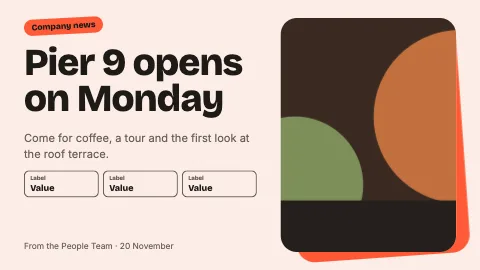
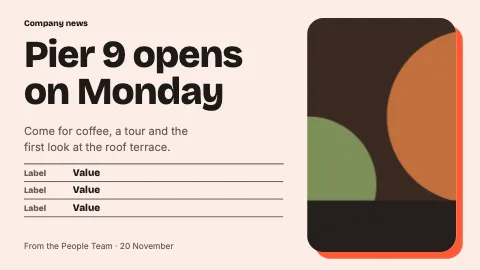
feat(announcement): facts as ruled rows, the code's label under it, a plain label, one accent a look (#603)
* feat(announcement): facts as ruled rows, the code's label under it, a plain label, one accent a look

The board's announcement (#news-design), in all four looks: facts are ruled rows with the label beside the value, so
a value wraps rather than being cut ("9 am" stays whole); the code stands on the ground with its label under it,
clamped to two balanced lines; the body, values and meta are balanced. Pop's label is plain text, not a wobbling pill,
its code has no cobalt card, and the photo's tomato block stands straight. Night's one accent is its label (the fact
labels, meta and code label go muted, and the code loses its frame). Corporate's code spans the facts' and meta's rows.
Announcement 1.2.0.

Pi measurement waived by the owner (2026-11-26).

* fix(announcement): Pop's code steps down with max-length copy so the row under it stays on screen

* Revert "fix(announcement): Pop's code steps down with max-length copy so the row under it stays on screen"

This reverts commit 2100e06475d5931a387ae3937f626f6dd1581a73.

* fix(announcement): Pop's gaps and code label step down with max-length copy

The code keeps its 30vmin so it scans from 2 m; the four gaps between
blocks and the label under the code step down with the body instead, so
long copy fits its box at the smallest step with room to spare in CI.

* test(announcement): the code holds 30vmin with every field at its limit; the accent check reads computed colours
[…]

Changed region(s): [[0.0312, 0.0593, 1.0, 0.9778], [0.0312, 0.0593, 0.5312, 0.4444]]

diff --git a/templates/announcement/style.css b/templates/announcement/style.css
@@ -107,26 +107,33 @@ body {
   font-size: calc(var(--lk-size-body) * var(--lk-scale) * var(--fit-body));
   line-height: 1.4;
   color: var(--lk-muted);
-  text-wrap: pretty;
+  text-wrap: balance;
   overflow-wrap: anywhere;
   display: -webkit-box;
   -webkit-box-orient: vertical;
   -webkit-line-clamp: 3;
   overflow: hidden;
 }
+/* Facts as ruled rows, the label beside the value, so a value wraps rather than being cut ("9 am" stays whole). */
 .facts {
   grid-area: facts;
   display: flex;
+  flex-direction: column;
   min-width: 0;
+  border-top: var(--lk-rule) solid var(--lk-rule-color);
 }
 .fact {
-  flex: 1 1 0;
   min-width: 0;
   display: flex;
-  flex-direction: column;
-  gap: 0.4em;
+  align-items: baseline;
+  gap: 2.6vmin;
+  padding: calc(1vmin * var(--fit-body)) 0;
+  border-bottom: var(--lk-rule) solid var(--lk-rule-color);
 }
 .fact dt {
+  flex: none;
+  width: 5em;
+  max-width: 35%;
   font-family: var(--lk-font-label);
   font-weight: var(--lk-label-weight);
   font-size: var(--lk-size-label);
@@ -138,19 +145,24 @@ body {
   text-overflow: ellipsis;
 }
 .fact dd {
+  flex: 1;
+  min-width: 0;
   font-size: calc(var(--lk-size-title) * var(--fit-body));
   line-height: 1.15;
+  text-wrap: balance;
   overflow-wrap: anywhere;
   display: -webkit-box;
   -webkit-box-orient: vertical;
   -webkit-line-clamp: 2;
   overflow: hidden;
 }
+/* The code on the ground, its label under it. */
 .qr {
   grid-area: qr;
   display: flex;
-  align-items: center;
-  gap: var(--lk-gap);
+  flex-direction: column;
+  align-items: flex-start;
+  gap: 1.4vmin;
   min-width: 0;
 }
 /* The code is always dark on white with its quiet zone, whatever the look or the kit: readers need it. */
@@ -168,11 +180,12 @@ body {
 }
 .qr-label {
   min-width: 0;
-  max-width: 13em;
+  max-width: var(--qr);
+  text-wrap: balance;
   overflow-wrap: anywhere;
   display: -webkit-box;
   -webkit-box-orient: vertical;
-  -webkit-line-clamp: 3;
+  -webkit-line-clamp: 2;
   overflow: hidden;
 }
 .meta {
@@ -183,6 +196,7 @@ body {
   font-size: var(--lk-size-label);
   line-height: 1.45;
   color: var(--lk-muted);
+  text-wrap: balance;
   overflow-wrap: anywhere;
   display: -webkit-box;
   -webkit-box-orient: vertical;
@@ -208,14 +222,16 @@ body {
   object-fit: cover;
 }
 
-/* Pop: the copy and the photo on a tilted tomato card inside a padded page; the eyebrow a wobbling
-   sticker, the QR code on a cobalt card. The canvas tilts the photo too: a drifting photo clipped
-   by a rotated rounded frame dropped 0.77% of frames while playing on the Pi, so it stands straight. */
+/* Pop: the copy and the photo on a tomato block, the look's one accent, inside a padded page; the label plain text,
+   the QR code on the ground. A drifting photo clipped by a rotated rounded frame dropped 0.77% of frames while playing
+   on the Pi, so the photo and its block stand straight. */
 [data-look='pop'] .stage {
   padding: 6.7vmin 8.9vmin;
   gap: 8.9vmin;
 }
+/* The code holds its size to scan, so at max-length copy the space between blocks, and the code's label, step down with the body. */
 [data-look='pop'] .copy {
+  --pop-gap: calc(var(--lk-gap) * var(--fit-body));
   grid-template-rows: min-content min-content min-content min-content minmax(0, 1fr) min-content;
   grid-template-areas:
     'eyebrow eyebrow logo'
@@ -226,14 +242,10 @@ body {
     'meta meta qr';
 }
 [data-look='pop'] .eyebrow {
-  margin-bottom: var(--lk-gap);
+  margin-bottom: var(--pop-gap);
 }
 [data-look='pop'] .pill {
-  padding: 0.4em 0.9em;
-  border-radius: var(--lk-radius-pill);
-  background: var(--lk-primary);
-  color: var(--lk-on-primary);
-  transform: rotate(-3deg);
+  font-size: 3.1vmin;
 }
 [data-look='pop'] .rule,
 [data-look='pop'] .foot-rule {
@@ -241,66 +253,52 @@ body {
 }
 [data-look='pop'] .body,
 [data-look='pop'] .facts {
-  margin-top: var(--lk-gap);
+  margin-top: var(--pop-gap);
+}
+[data-look='pop'] .body {
+  max-width: 24em;
 }
 [data-look='pop'] .facts {
-  gap: 1.6vmin;
+  border-top-color: var(--lk-text);
 }
 [data-look='pop'] .fact {
-  padding: 1.2vmin 2vmin;
-  border: var(--lk-rule) solid var(--lk-rule-color);
-  border-radius: var(--lk-radius-small);
+  border-bottom-color: var(--lk-text);
 }
 [data-look='pop'] .fact dt {
-  font-size: 2.2vmin;
+  font-size: 3.1vmin;
 }
 [data-look='pop'] .fact dd {
   font-family: var(--lk-font-display);
   font-weight: 800;
-  font-size: calc(3.3vmin * var(--fit-body));
+  font-size: calc(3.7vmin * var(--fit-body));
 }
 [data-look='pop'] .qr,
 [data-look='pop'] .meta {
-  margin-top: var(--lk-gap);
+  margin-top: var(--pop-gap);
   align-self: end;
 }
 [data-look='pop'] .qr {
-  --lk-motion: var(--lk-badge-motion);
-  flex-direction: column;
-  align-items: flex-start;
-  gap: 1.5vmin;
   margin-left: 3.7vmin;
-  padding: 1.7vmin;
-  border-radius: 3.3vmin;
-  background: var(--lk-accent);
-  color: var(--lk-on-accent);
   font-family: var(--lk-font-display);
-  font-weight: 800;
-  font-size: 3.7vmin;
-  line-height: 1.05;
-}
-[data-look='pop'] .tile {
-  border-radius: 1.4vmin;
-  overflow: hidden;
+  font-weight: 700;
+  font-size: max(2.6vmin, 3.1vmin * var(--fit-body));
+  line-height: 1.25;
 }
 [data-look='pop'] .qr-label {
-  max-width: var(--qr);
-  padding-inline: 0.4em;
   -webkit-line-clamp: 2;
 }
 [data-look='pop'] .meta-in {
   -webkit-line-clamp: 3;
 }
 [data-look='pop'] .photo {
-  flex-basis: 36.5vw;
+  flex-basis: 31vw;
 }
 [data-look='pop'] .photo::before {
   content: '';
   position: absolute;
-  inset: 3.3vmin -2.6vmin -2.2vmin 3.3vmin;
-  border-radius: 6.7vmin;
+  inset: 2.6vmin -2.6vmin -2.6vmin 2.6vmin;
+  border-radius: min(var(--lk-radius), 6.7vmin);
   background: var(--lk-primary);
-  transform: rotate(-4deg);
 }
 [data-look='pop'] .frame {
   border-radius: var(--lk-radius);
@@ -315,7 +313,7 @@ body {
     'qr meta meta';
 }
 :where([data-orientation='portrait'])[data-look='pop'] .qr {
-  margin: var(--lk-gap) 3.7vmin 0 0;
+  margin: var(--pop-gap) 3.7vmin 0 0;
 }
 :where([data-orientation='portrait'])[data-look='pop'] .photo {
   flex-basis: 30vh;
@@ -369,18 +367,13 @@ body {
 }
 [data-look='poster'] .facts {
   margin-top: 3.3vmin;
-  gap: 2.2vmin;
-}
-[data-look='poster'] .fact:where(.fact + *) {
-  padding-left: 2.2vmin;
-  border-left: max(1px, 0.1vmin) solid var(--lk-rule-color);
 }
 [data-look='poster'] .fact dt {
   color: var(--lk-text);
 }
 [data-look='poster'] .fact dd {
   font-family: var(--lk-font-display);
-  font-size: calc(4.6vmin * var(--fit-body));
+  font-size: calc(3.7vmin * var(--fit-body));
   line-height: 1;
 }
 [data-look='poster'] .foot-rule {
@@ -473,8 +466,8 @@ body {
 [data-look='night'] .meta-in {
   --lk-motion: var(--lk-text-motion);
 }
-[data-look='night'] .pill,
-[data-look='night'] .meta-in {
+/* The label is Night's one accent. */
+[data-look='night'] .pill {
   color: var(--lk-accent-ink-large);
 }
 /* The eyebrow and the meta line share the header, one at each end. */
@@ -524,10 +517,6 @@ body {
 }
 [data-look='night'] .facts {
   margin-top: 3vmin;
-  gap: 3.7vmin;
-}
-[data-look='night'] .fact dt {
-  color: var(--lk-accent-ink);
 }
 [data-look='night'] .fact dd {
   font-family: var(--lk-font-display);
@@ -542,13 +531,8 @@ body {
   width: calc(var(--qr) + 3vmin);
   font-family: var(--lk-font-label);
   font-size: 2.1vmin;
-  color: var(--lk-accent-ink);
+  color: var(--lk-muted);
   text-align: center;
-}
-[data-look='night'] .tile {
-  padding: 1.5vmin;
-  border-radius: 2.6vmin;
-  background: var(--lk-primary);
 }
 :where([data-orientation='portrait'])[data-look='night'] .stage {
   grid-template-rows: min-content min-content minmax(34%, 1fr) min-content min-content min-content;
@@ -578,7 +562,7 @@ body {
     'headline headline headline'
     'body body body'
     'frule frule frule'
-    'facts facts facts'
+    'facts facts qr'
     'meta meta qr';
 }
 [data-look='corporate'] .logo {
@@ -619,13 +603,6 @@ body {
 [data-look='corporate'] .foot-rule {
   margin: 3vmin 0 2.2vmin;
 }
-[data-look='corporate'] .facts {
-  gap: 2.2vmin;
-}
-[data-look='corporate'] .fact:where(.fact + *) {
-  padding-left: 2.2vmin;
-  border-left: var(--lk-rule) solid var(--lk-rule-color);
-}
 [data-look='corporate'] .fact dd {
   font-weight: 500;
 }
@@ -639,7 +616,6 @@ body {
   line-height: 1.5;
 }
 [data-look='corporate'] .qr {
-  flex-direction: row-reverse;
   margin-left: 3.7vmin;
   font-family: var(--lk-font-label);
   font-weight: var(--lk-label-weight);
@@ -651,10 +627,6 @@ body {
 }
 [data-look='corporate'] .tile {
   border: var(--lk-rule) solid var(--lk-rule-color);
-}
-[data-look='corporate'] .qr-label {
-  text-align: right;
-  max-width: 12em;
 }
 [data-look='corporate'] .photo {
   flex-basis: 39.6vw;

diff --git a/templates/announcement/test/browser.test.ts b/templates/announcement/test/browser.test.ts
@@ -100,6 +100,54 @@ describe('announcement (#197)', () => {
       expect(found).toEqual([]);
     }, 180_000);
 
+  // The board's announcement (#news-design): facts as ruled rows that wrap rather than cut ("9 am" stays whole), the
+  // code's label under it, the label as text not a pill, a straight photo block, and one accent a look.
+  for (const orientation of ['landscape', 'portrait'] as const)
+    it(`sets facts as rows that never cut, the code's label under it and one accent a look, ${orientation}`, async () => {
+      const k = await screenFrame(t(), orientation, photo);
+      const found: string[] = [];
+      const facts = [
+        { label: 'Where', value: 'Pier 9, third floor' },
+        { label: 'When', value: 'Monday 30 November, 9 am' },
+      ];
+      for (const look of looks) {
+        const f = await k.play({ look, ...everything, facts }, demo, undefined, logo);
+        const seen = await f.evaluate(() => {
+          for (const a of document.getAnimations()) a.currentTime = 3000;
+          const style = (el: Element, pseudo?: string) => getComputedStyle(el, pseudo);
+          const facts = [...document.querySelectorAll<HTMLElement>('.fact')];
+          // As computed, like the colours it is compared with: the custom property holds what the kit wrote (hex).
+          const accents = ['--lk-accent-ink', '--lk-accent-ink-large'].map((name) => {
+            const probe = document.body.appendChild(document.createElement('i'));
+            probe.style.color = `var(${name})`;
+            const color = style(probe).color;
+            probe.remove();
+            return color;
+          });
+          const inAccent = [...document.querySelectorAll('.copy *')].filter(
+            (el) => el.children.length === 0 && el.textContent && accents.includes(style(el).color),
+          );
+          return {
+            rows: facts.every((el) => style(el).flexDirection === 'row'),
+            // Cut: the clamp hides at least half a line (glyphs overhang a tight leading by a few pixels, as main.ts allows).
+            cut: facts.map((el) => el.querySelector('dd')!).filter((dd) => dd.scrollHeight - dd.clientHeight > Number.parseFloat(style(dd).fontSize) / 2)
+              .length,
+            under: style(document.querySelector('.qr')!).flexDirection,
+            pill: style(document.querySelector('.pill')!).backgroundColor,
+            tilt: style(document.querySelector('.photo')!, '::before').transform,
+            accents: inAccent.length,
+          };
+        });
+        if (!seen.rows) found.push(`${look}: facts are not rows`);
+        if (seen.cut) found.push(`${look}: ${seen.cut} fact values cut`);
+        if (seen.under !== 'column') found.push(`${look}: the code's label is not under it`);
+        if (seen.pill !== 'rgba(0, 0, 0, 0)') found.push(`${look}: the label is a pill`);
+        if (seen.tilt !== 'none') found.push(`${look}: the photo's block is tilted`);
+        if (seen.accents > 1) found.push(`${look}: ${seen.accents} texts in the accent`);
+      }
+      expect(found).toEqual([]);
+    });
+
   // #224: with it, a portrait screen gets the landscape rendition, which must never be drawn larger than it is.
   it('draws the photo within the portraitBox it declares, in every look and toggle, over the whole spot', async () => {
     const { manifest } = t();
@@ -213,7 +261,8 @@ describe('announcement (#197)', () => {
       const k = await screenFrame(t(), orientation, photo);
       for (const [kit, theme] of kits)
         for (const look of looks) {
-          const f = await k.play({ look, qrUrl: long.qrUrl }, theme);
+          // With every field at its limit: long copy gives way, never the code (#603's review).
+          const f = await k.play({ look, ...long }, theme);
           const { fills, clip, vmin } = await f.evaluate(() => {
             for (const a of document.getAnimations()) a.currentTime = 3000;
             const svg = document.querySelector('#qr svg')!;

diff --git a/templates/announcement/index.html b/templates/announcement/index.html
@@ -8,7 +8,7 @@
 <body>
 <div class="stage">
   <section class="copy">
-    <div class="eyebrow lk-mask" data-show="eyebrow"><div class="eyebrow-in lk-badge lk-d1"><span class="pill lk-wobble" data-sf="eyebrow">Company news</span></div></div>
+    <div class="eyebrow lk-mask" data-show="eyebrow"><div class="eyebrow-in lk-badge lk-d1"><span class="pill" data-sf="eyebrow">Company news</span></div></div>
     <img class="logo lk-fade lk-d1" data-show="logo" data-sf-src="$brand.logo" alt="">
     <div class="rule lk-draw lk-d1"></div>
     <div class="headline-box lk-mask"><h1 class="headline lk-text lk-d2" data-sf="headline">Pier 9 opens on Monday</h1></div>

diff --git a/packages/template-test/README.md b/packages/template-test/README.md
@@ -25,7 +25,7 @@ Every template: the update lifecycle, above, and D's motion in both orientations
 
 - **agenda**: today's date from `init`'s clock, not the device's; the accent text, the time of what is on now, on its backdrop under every brand kit; ruled rows on a flat ground, the accent on nothing else, title-case day labels, and one date heading a day.
 - **alert** (#200): every severity reads as painted, in its own colours whatever the kit; every field at its longest fits with nothing overlapping, in every toggle state and orientation; each toggle is marked and removes its part, and without the QR code the type steps up; long copy steps the type down until it fits; emergency and warning drop in hard, advisory and notice fade, and only emergency pulses, at most once every 2 s; the QR code's caption on the meta line, at its size; a prepare that new data replaced changes nothing in the new document (#308); with reduced motion nothing animates.
-- **announcement** (#197), at 1920x1080: in each look, both orientations, with each toggle off alone, all off, and every text field at its `maxLength` (one 80-letter word too), no block leaves the screen or overlaps another, no text is cut sideways without an ellipsis and no clamped text shows more than its lines; every text reads as painted with no kit, the demo kit and a light kit; each toggle is marked and what is off removed, the headline steps up without the photo and the footer closes up without the QR code (Night's headline takes its column); an element with nothing to show is left out; the defaults play at the look's own type sizes; the QR code is at least 30vmin, black on white in every look and kit, and reads back (jsQR) as a 100-character address; every element has an intro and an outro ending with the spot, only `transform` and `opacity` move, on at most 50 elements; with reduced motion nothing animates.
+- **announcement** (#197), at 1920x1080: in each look, both orientations, with each toggle off alone, all off, and every text field at its `maxLength` (one 80-letter word too), no block leaves the screen or overlaps another, no text is cut sideways without an ellipsis and no clamped text shows more than its lines; every text reads as painted with no kit, the demo kit and a light kit; each toggle is marked and what is off removed, the headline steps up without the photo and the footer closes up without the QR code (Night's headline takes its column); an element with nothing to show is left out; the defaults play at the look's own type sizes; the QR code is at least 30vmin, black on white in every look and kit, and reads back (jsQR) as a 100-character address; every element has an intro and an outro ending with the spot, only `transform` and `opacity` move, on at most 50 elements; facts are ruled rows whose values wrap rather than cut, the code's label sits under it, the label is text not a pill, the photo's block stands straight, and each look has one accent; with reduced motion nothing animates.
 - **clock**: the time and date from `init`'s clock, not the device's; the greeting, in the accent, on its backdrop under every brand kit.
 - **countdown** (#198), from fixed clocks: the count before, at and after its target, in days and in hours and minutes; wall-clock days across both DST changes in New York; zeros once the target has passed, in the hour the clocks repeat too; the progress over the last `progressDays`, only moving forward; a prepare superseded by a new init while its faces load leaves the new document alone; counting up with a record (to beat, and beaten) and without one; Night's ring as two half-discs turned by transforms; figures that change only as their unit turns, from one timer that `stop` clears, at the same width whatever their digits; in every look, with the longest copy, each toggle off and all off, in both orientations: no text past the screen, its clamp or its box, painted over or overlapping another; every text reads as painted with no kit, the demo kit and a light kit; each toggle marked and its element removed with the title stepped up; intros and outros timed from `--sf-duration` on `transform` and `opacity` only, within the cap; ambient motion and Night's sweep still in portrait; nothing moving under reduced motion.
 - **cstore-promo**: the badge's text on its disc, in the accent (4.5:1, 3:1 for the large points figure), and the promo line, in the accent, on its backdrop, under every brand kit; no panel, gradient text or ring, and nothing moving once the bottles have arrived.
